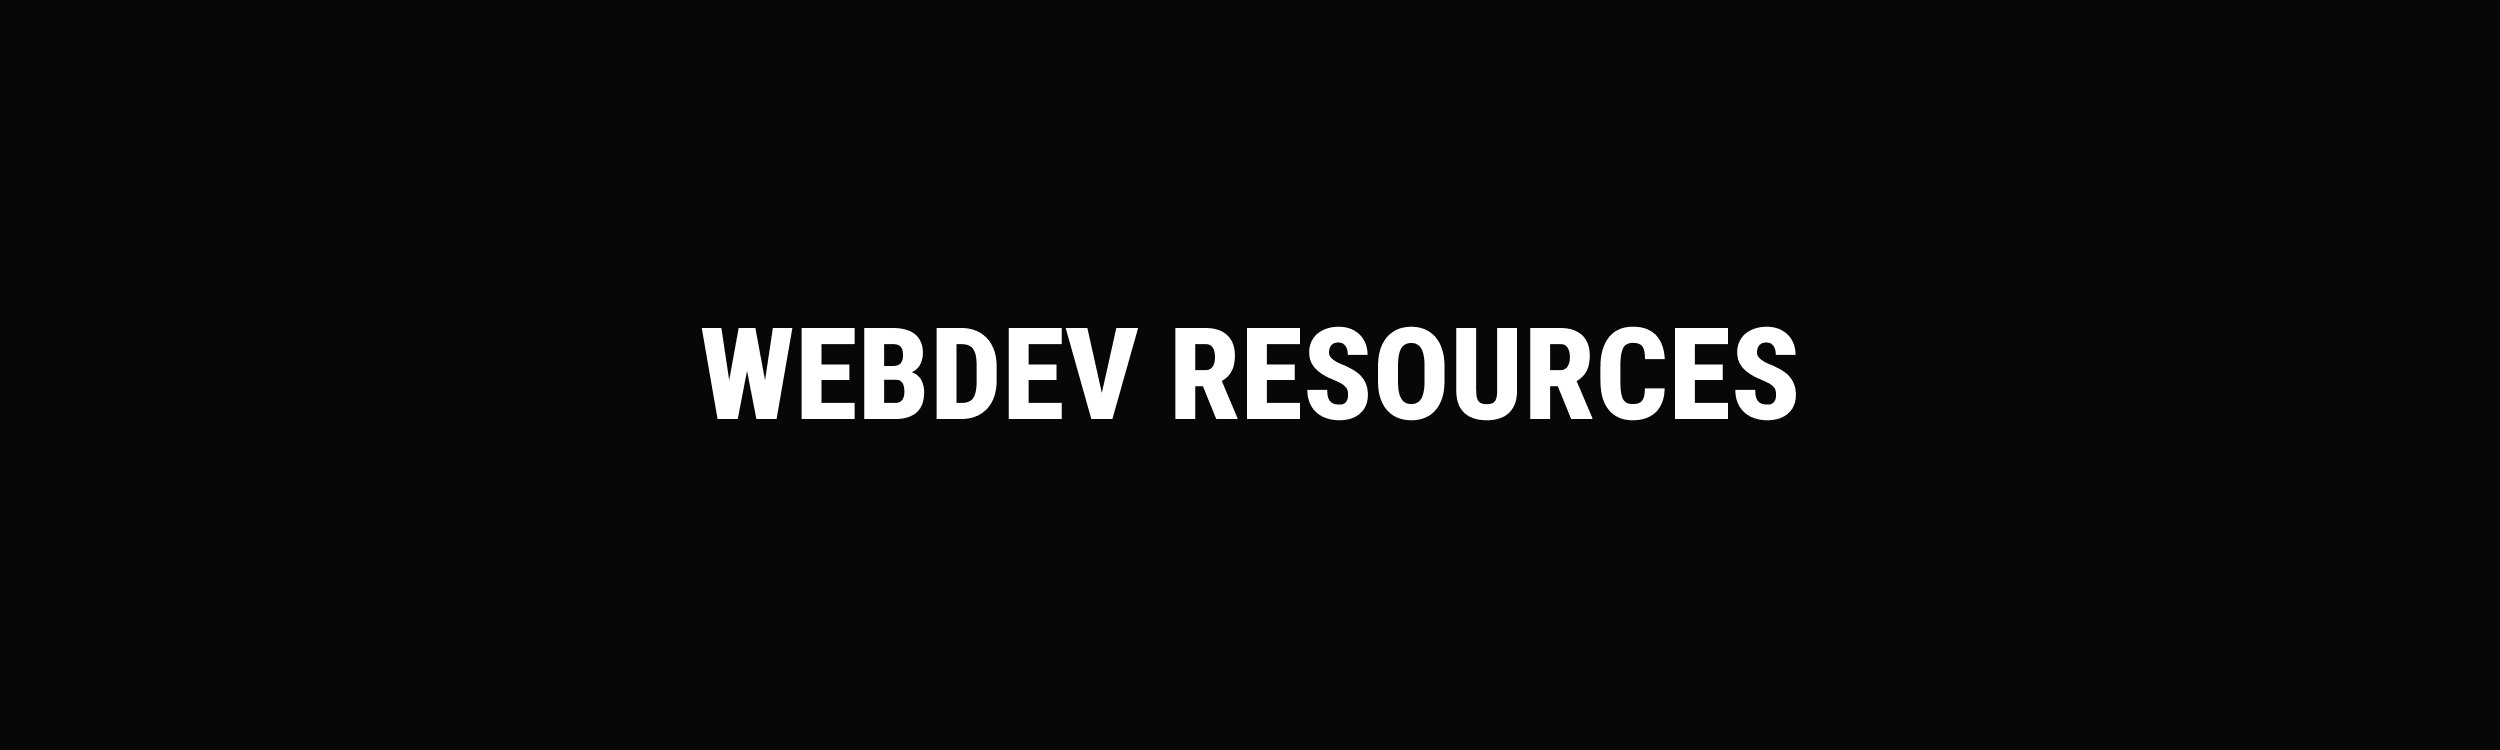
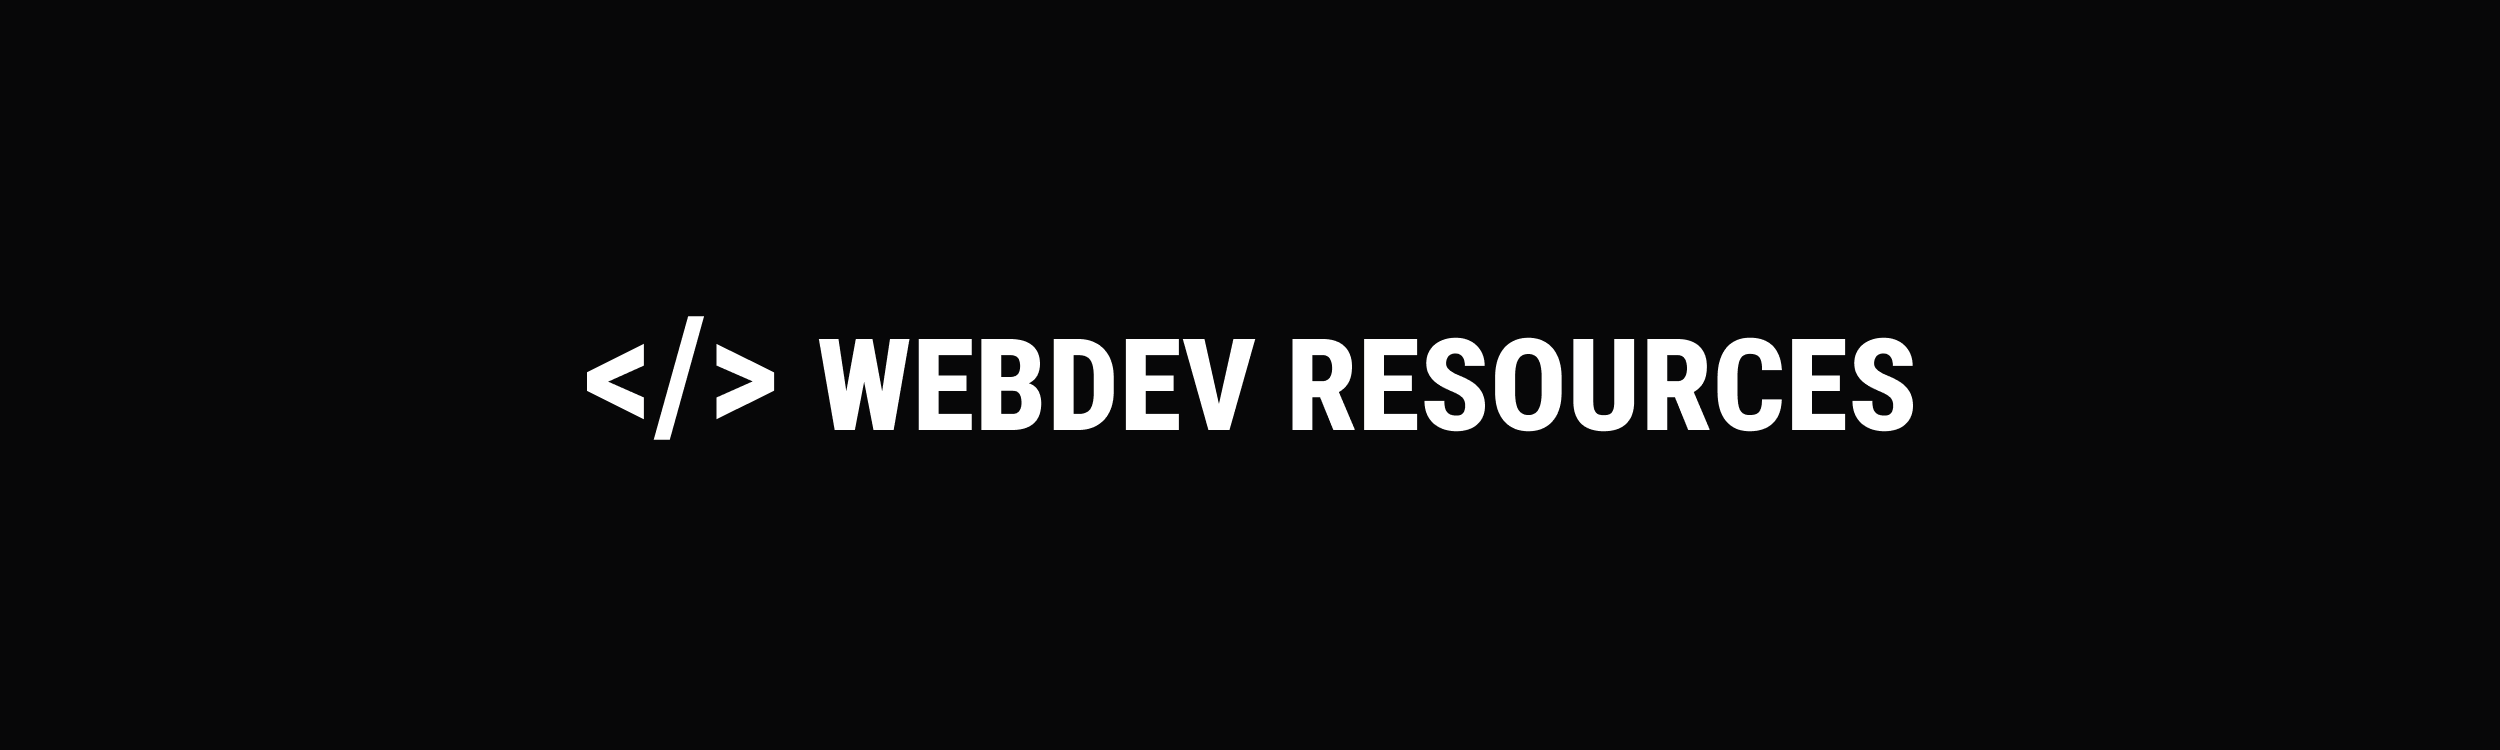
initial updates

Changed region(s): [[0.2184, 0.4293, 0.78, 0.5827]]

diff --git a/readme.md b/readme.md
@@ -1,6 +1,6 @@
 <div align="center">
    <a align="center" href="https://github.com/syahrizaldev/webdev-resources">
-      <img src="./banner.png" alt="Github banner image">
+      <img src="./banner.png" alt="WebDev Resources Banner">
    </a>
 </div>
 
@@ -327,7 +327,7 @@
 | [Vuestic](https://ui.vuestic.dev)          | Vue 3 UI framework with large set of customizable components.                                | Free / Open source |
 | [Element Plus](https://element-plus.org)   | Vue 3 UI library with wide range of components and themes.                                   | Free / Open source |
 | [Naive](https://naiveui.com)               | Vue 3 component library with customizable themes and components.                             | Free / Open source |
-| [Svelte UI](https://svelteui.dev)          | UI library for Svelte with accessible and customizable components.                           | Free / Open source |
+| [SvelteUI](https://svelteui.dev)           | UI library for Svelte with accessible and customizable components.                           | Free / Open source |
 | [Melt](https://melt-ui.com)                | Headless UI components for Svelte focused on accessibility.                                  | Free / Open source |
 | [Skeleton](https://skeleton.dev)           | UI toolkit for Svelte and Tailwind CSS with prebuilt components.                             | Free / Open source |
 | [Bits](https://bits-ui.com)                | Accessible and customizable React UI components.                                             | Free / Open source |
@@ -412,42 +412,44 @@
 
 > List of project management tools to help organize, track, and manage projects effectively.
 
-| Name                                     | Description                                                              | Pricing                    |
-| ---------------------------------------- | ------------------------------------------------------------------------ | -------------------------- |
-| [Notion](https://notion.com)             | Workspace for notes, tasks, databases, and project management.           | Free / $12 per month       |
-| [Asana](https://asana.com)               | Tool for tracking tasks, projects, and team collaboration.               | Free / $11 per month       |
-| [Jira](https://jira.atlassian.com)       | Project management and issue tracking software for agile teams.          | Free / $9 per month        |
-| [Canny](https://canny.io)                | Platform for collecting and managing user feedback and feature requests. | Free / $99 per month       |
-| [Clickup](https://clickup.com)           | All-in-one platform for tasks, docs, goals, and project tracking.        | Free / $10 per month       |
-| [Monday](https://monday.com)             | Work operating system for managing projects, workflows, and teams.       | Free / $12 per month       |
-| [Wrike](https://wrike.com)               | Collaborative work management platform for projects and tasks.           | Free / $10 per month       |
-| [Trello](https://trello.com)             | Visual tool for organizing tasks and projects using boards and cards.    | Free / $6 per month        |
-| [Teamwork](https://teamwork.com)         | Project management software solution for teams and client work.          | Free / $14 per month       |
-| [Basecamp](https://basecamp.com)         | Simple platform for team communication and project organization.         | Free / $15 per month       |
-| [Linear](https://linear.app)             | Issue tracking and project management tool for software teams.           | Free / $10 per month       |
-| [Plaky](https://plaky.com)               | Project management tool for organizing tasks and projects.               | Free / $5 per month        |
-| [Miro](https://miro.com)                 | Online collaborative whiteboard for brainstorming and planning.          | Free / $10 per month       |
-| [Eraser](https://eraser.io)              | Collaborative diagramming and whiteboarding tool for teams.              | Free / $12 per month       |
-| [Obsidian](https://obsidian.md)          | Knowledge base and note-taking app with linking and markdown support.    | Free / $50 per year        |
-| [Acreom](https://acreom.com)             | Note-taking and task management tool for developers and teams.           | Free / $9 per month        |
-| [Plane](https://plane.so)                | Open-source project and product management platform.                     | Free / $8 per month        |
-| [Upvoty](https://upvoty.com)             | User feedback and feature request tracking platform.                     | Free trial / $15 per month |
-| [Frill](https://frill.co)                | Tool for collecting feedback, managing ideas, and sharing updates.       | Free trial / $25 per month |
-| [Midday](https://midday.ai)              | AI-powered productivity and project management assistant.                | Free trial / $29 per month |
-| [Featurebase](https://featurebase.app)   | Platform for collecting, prioritizing, and managing product feedback.    | Free / $59 per month       |
-| [Userjot](https://userjot.com)           | Tool for gathering and organizing user feedback and suggestions.         | Free / $29 per month       |
-| [Release Notes](https://releasenotes.io) | Platform for creating and sharing product release notes.                 | Free / $39 per month       |
-| [Appflowy](https://appflowy.io)          | Open-source workspace for notes, tasks, and project management.          | Free / $13 per month       |
-| [Focalboard](https://focalboard.com)     | Open-source project management tool for organizing tasks and projects.   | Free / Open source         |
-| [Huly](https://huly.io)                  | Project management platform designed for teams and freelancers.          | Free / $20 per month       |
-| [Nifty](https://niftypm.com)             | Project management software for planning, tracking, and collaboration.   | Free / $49 per month       |
-| [Height](https://height.app)             | Project management tool for teams with task tracking and collaboration.  | Free / $19 per month       |
-| [Open Project](https://openproject.org)  | Open-source project management software for teams.                       | Free / $8 per month        |
-| [Tegon](https://tegon.ai)                | AI-powered tool for managing tasks and projects.                         | Free / Open source         |
-| [Zenhub](https://zenhub.com)             | Project management solution integrated with GitHub.                      | Free / $13 per month       |
-| [Orgnise](https://orgnise.in)            | Task and project management tool for teams and individuals.              | Free / $24 per month       |
-| [Paymo](https://paymoapp.com)            | Work and project management software with time tracking feature.         | Free / $10 per month       |
-| [Operately](https://operately.com)       | Open-source platform for managing goals, projects, and team operations.  | Free / Open source         |
+| Name                                     | Description                                                                         | Pricing                    |
+| ---------------------------------------- | ----------------------------------------------------------------------------------- | -------------------------- |
+| [Notion](https://notion.com)             | Workspace for notes, tasks, databases, and project management.                      | Free / $12 per month       |
+| [Asana](https://asana.com)               | Tool for tracking tasks, projects, and team collaboration.                          | Free / $11 per month       |
+| [Jira](https://jira.atlassian.com)       | Project management and issue tracking software for agile teams.                     | Free / $9 per month        |
+| [Canny](https://canny.io)                | Platform for collecting and managing user feedback and feature requests.            | Free / $99 per month       |
+| [Clickup](https://clickup.com)           | All-in-one platform for tasks, docs, goals, and project tracking.                   | Free / $10 per month       |
+| [Monday](https://monday.com)             | Work operating system for managing projects, workflows, and teams.                  | Free / $12 per month       |
+| [Wrike](https://wrike.com)               | Collaborative work management platform for projects and tasks.                      | Free / $10 per month       |
+| [Teamwork](https://teamwork.com)         | Project management software solution for teams and client work.                     | Free / $14 per month       |
+| [Basecamp](https://basecamp.com)         | Simple platform for team communication and project organization.                    | Free / $15 per month       |
+| [Zapier](https://zapier.com)             | Automation platform for connecting apps and services to create automated workflows. | Free / $30 per month       |
+| [Trello](https://trello.com)             | Visual tool for organizing tasks and projects using boards and cards.               | Free / $6 per month        |
+| [Linear](https://linear.app)             | Issue tracking and project management tool for software teams.                      | Free / $10 per month       |
+| [Plaky](https://plaky.com)               | Project management tool for organizing tasks and projects.                          | Free / $5 per month        |
+| [Miro](https://miro.com)                 | Online collaborative whiteboard for brainstorming and planning.                     | Free / $10 per month       |
+| [Eraser](https://eraser.io)              | Collaborative diagramming and whiteboarding tool for teams.                         | Free / $12 per month       |
+| [Obsidian](https://obsidian.md)          | Knowledge base and note-taking app with linking and markdown support.               | Free / $50 per year        |
+| [Acreom](https://acreom.com)             | Note-taking and task management tool for developers and teams.                      | Free / $9 per month        |
+| [Plane](https://plane.so)                | Open-source project and product management platform.                                | Free / $8 per month        |
+| [Upvoty](https://upvoty.com)             | User feedback and feature request tracking platform.                                | Free trial / $15 per month |
+| [Frill](https://frill.co)                | Tool for collecting feedback, managing ideas, and sharing updates.                  | Free trial / $25 per month |
+| [Midday](https://midday.ai)              | AI-powered productivity and project management assistant.                           | Free trial / $29 per month |
+| [Featurebase](https://featurebase.app)   | Platform for collecting, prioritizing, and managing product feedback.               | Free / $59 per month       |
+| [Userjot](https://userjot.com)           | Tool for gathering and organizing user feedback and suggestions.                    | Free / $29 per month       |
+| [Release Notes](https://releasenotes.io) | Platform for creating and sharing product release notes.                            | Free / $39 per month       |
+| [Appflowy](https://appflowy.io)          | Open-source workspace for notes, tasks, and project management.                     | Free / $13 per month       |
+| [Focalboard](https://focalboard.com)     | Open-source project management tool for organizing tasks and projects.              | Free / Open source         |
+| [Huly](https://huly.io)                  | Project management platform designed for teams and freelancers.                     | Free / $20 per month       |
+| [Nifty](https://niftypm.com)             | Project management software for planning, tracking, and collaboration.              | Free / $49 per month       |
+| [Height](https://height.app)             | Project management tool for teams with task tracking and collaboration.             | Free / $19 per month       |
+| [Open Project](https://openproject.org)  | Open-source project management software for teams.                                  | Free / $8 per month        |
+| [Tegon](https://tegon.ai)                | AI-powered tool for managing tasks and projects.                                    | Free / Open source         |
+| [Zenhub](https://zenhub.com)             | Project management solution integrated with GitHub.                                 | Free / $13 per month       |
+| [Orgnise](https://orgnise.in)            | Task and project management tool for teams and individuals.                         | Free / $24 per month       |
+| [Paymo](https://paymoapp.com)            | Work and project management software with time tracking feature.                    | Free / $10 per month       |
+| [Automatisch](https://automatisch.io)    | Open-source automation platform for connecting apps and automating workflows.       | Free / $23 per month       |
+| [Operately](https://operately.com)       | Open-source platform for managing goals, projects, and team operations.             | Free / Open source         |
 
 ## Contributing
 
